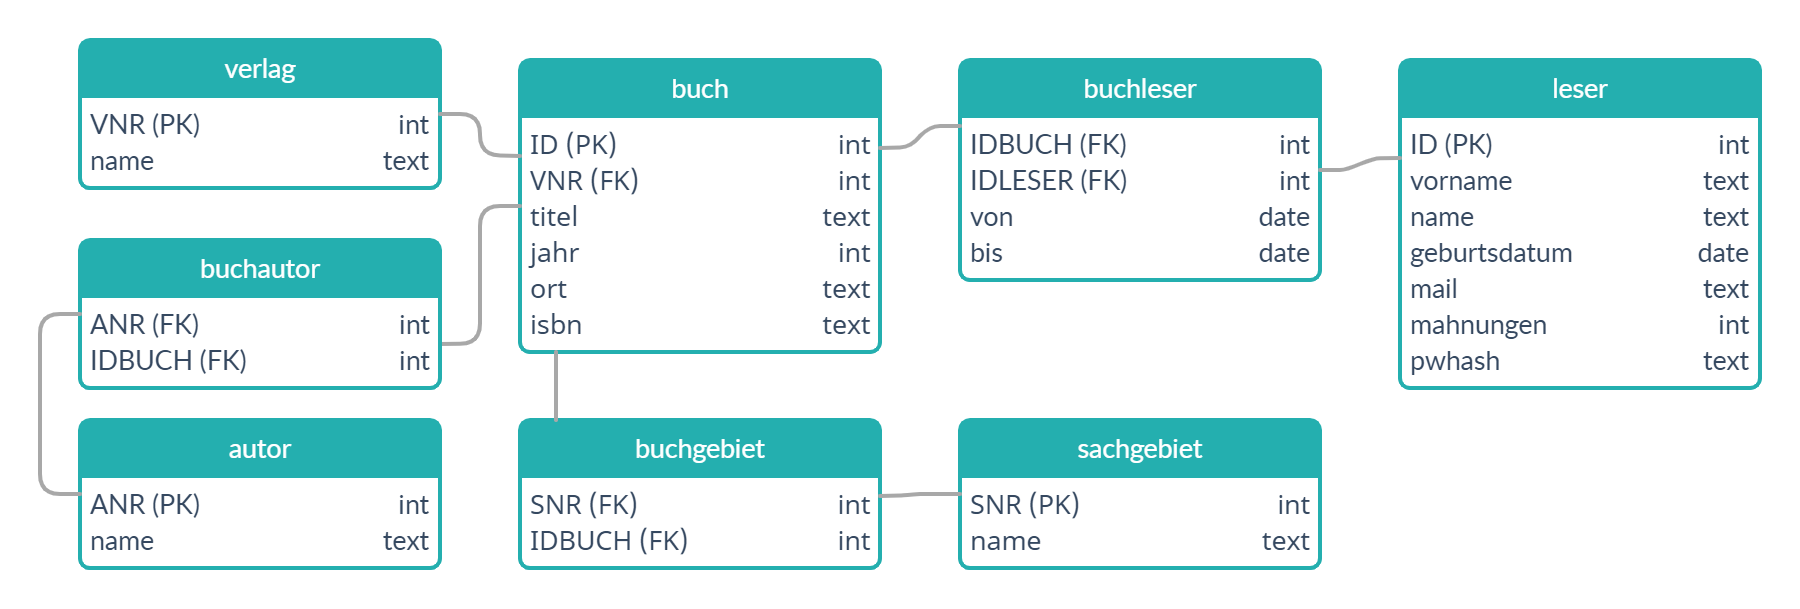
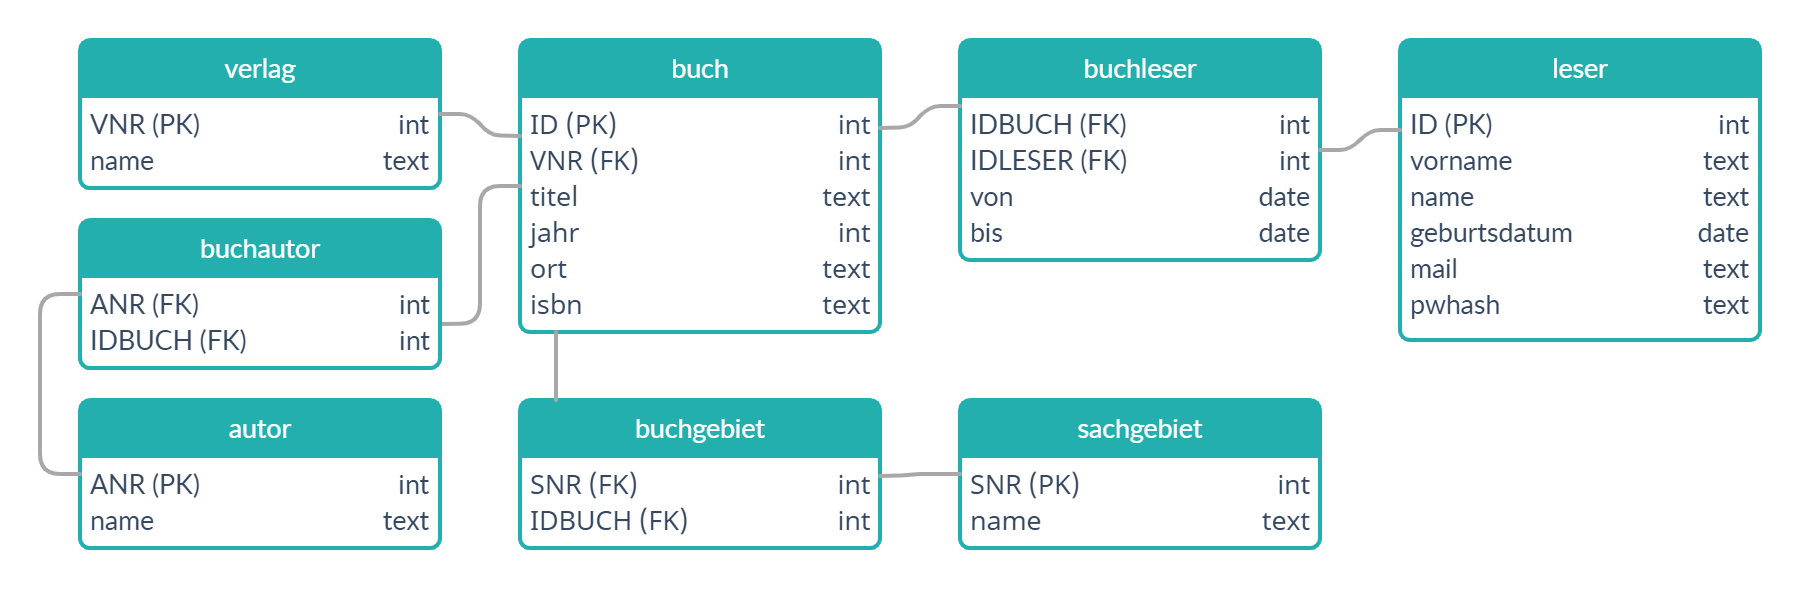
update files
mahnungen.php funktioniert
Tabelle leser überarbeitet
Suchfunktion angefangen

diff --git a/biblio/index.php b/biblio/index.php
@@ -11,11 +11,60 @@ session_start();
 	<meta charset="utf-8">
 	<link href='style.css' rel='stylesheet' type='text/css'>
 <head>
-	<title>Bibliothek - Start</title>
+	<title>Bibliothek - Suche</title>
 </head>
 <body>
 <?php create_header('./'); ?>
-<h1>Bibliothekssystem</h1>
-<br>
+<h1>Suche</h1>
+
+<form action="<?php echo htmlspecialchars($_SERVER["PHP_SELF"]); ?>" method="post">
+	<div style="font-size: 20px;margin: 10px;color: white;">Suchoptionen</div>
+    <table class="invisible"><tbody>
+	<tr><td>Sachgebiet: </td><td><input id="text" type="text" name="sachgebiet"></td></tr>
+    <tr><td>Autor: </td><td><input id="text" type="text" name="autor"></td></tr>
+    <tr><td>Titel: </td><td><input id="text" type="text" name="titel"></td></tr>
+    <tr><td>Erscheinungsort: </td><td><input id="text" type="text" name="ort"></td></tr>
+	<tr><td>Erscheinungsjahr: </td><td><input id="text" type="text" name="jahr"></td></tr>
+    <tr><td>Verlag: </td><td><input id="text" type="text" name="verlag"></td></tr>
+</tbody></table><br>
+	<input id="button" type="submit" value="Datenbank durchsuchen"><br>
+	<?php echo $error; ?><br>
+</form>
+
+<table class="farbig"><tbody>
+<?php
+if($_SERVER['REQUEST_METHOD'] == "POST") {
+	$sachgebiet = $_POST["sachgebiet"];
+	$autor = $_POST["autor"];
+	$titel = $_POST["titel"];
+	$ort = $_POST["ort"];
+	$jahr = $_POST["jahr"];
+	$verlag = $_POST["verlag"];
+	$query = $con->prepare("SELECT buch.titel, 'Some string'
+							FROM autor, buchautor, buch, verlag, buchgebiet, sachgebiet
+							WHERE autor.ANR = buchautor.ANR
+    						AND buchautor.IDBUCH = buch.ID
+							AND verlag.VNR = buch.VNR
+							AND sachgebiet.SNR = buchgebiet.SNR
+							AND buchgebiet.IDBUCH = buch.ID
+							AND sachgebiet.name LIKE '%?%' 
+							OR autor.name LIKE '%?%'
+							OR buch.titel LIKE '%?%'
+							OR buch.ort LIKE '%?%'
+							OR buch.jahr LIKE '%?%'
+							OR verlag.name LIKE '%?%'
+							ORDER BY buch.titel ASC");
+    $query->bind_param('ssssis', $sachgebiet, $autor, $titel, $ort, $jahr, $verlag);
+    $query->execute();
+	$result = array();
+    $query->bind_result($res);
+    while ($query->fetch()) {
+		array_push($result, $res);
+    }
+    $query->close();
+	create_table($result);
+}
+?>
+</tbody></table>
 </body>
 </html>

diff --git a/biblio/mahnungen.php b/biblio/mahnungen.php
@@ -16,7 +16,19 @@ session_start();
 <body>
 <?php create_header('./'); ?>
 <h1>Mahnungen</h1>
-<br>
-    
+
+<table class="farbig"><tbody>
+<?php
+$sql = "SELECT leser.ID AS ID, CONCAT(leser.vorname, ' ', leser.name) AS Leser, COUNT(*) AS Mahnungen
+		FROM buchleser, leser
+		WHERE buchleser.IDLESER = leser.ID
+		AND IF(buchleser.bis IS NULL , ABS(DATEDIFF(CURRENT_DATE(), buchleser.von)), ABS(DATEDIFF(buchleser.bis, buchleser.von)))>30
+		GROUP BY leser.ID
+		ORDER BY Mahnungen DESC";
+	$result = $con->query($sql);
+	create_table($result);
+?>
+</tbody></table>
+
 </body>
 </html>

diff --git a/biblio/new_buch.php b/biblio/new_buch.php
@@ -220,8 +220,8 @@ if($_SERVER['REQUEST_METHOD'] == "POST") {
     AND verlag.VNR = buch.VNR
     AND sachgebiet.SNR = buchgebiet.SNR
     AND buchgebiet.IDBUCH = buch.ID
-    ORDER BY buch.ID DESC
-    LIMIT 1";
+    AND buch.ID = $nid
+    ORDER BY buch.ID DESC";
 	$result = $con->query($sql);
 	create_table($result);
 }
